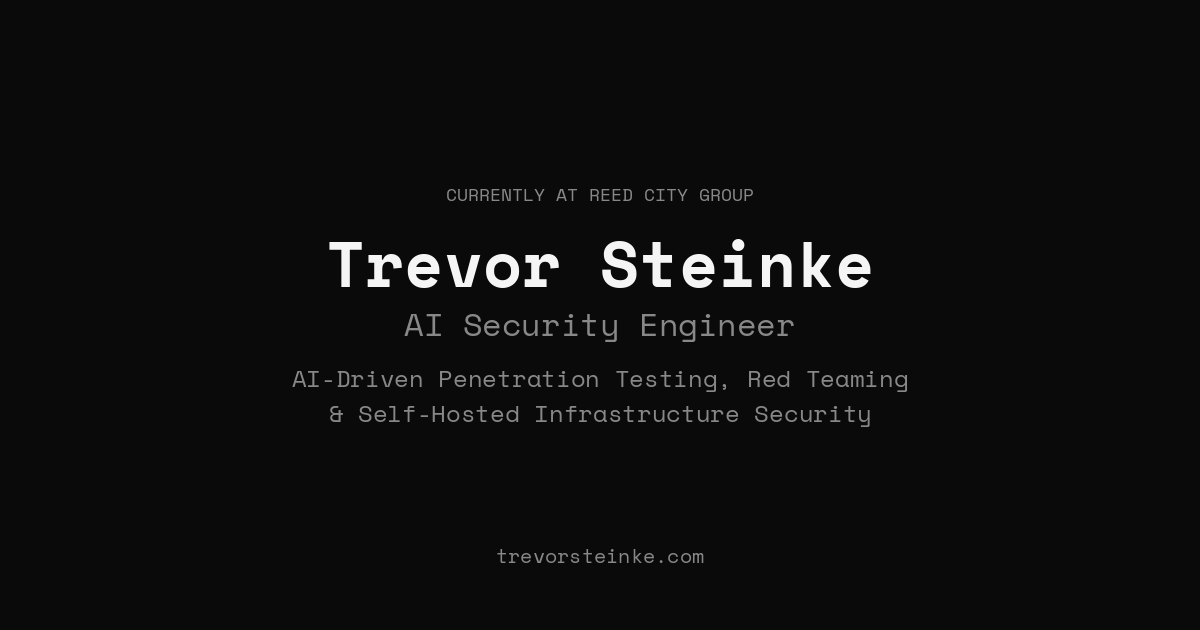
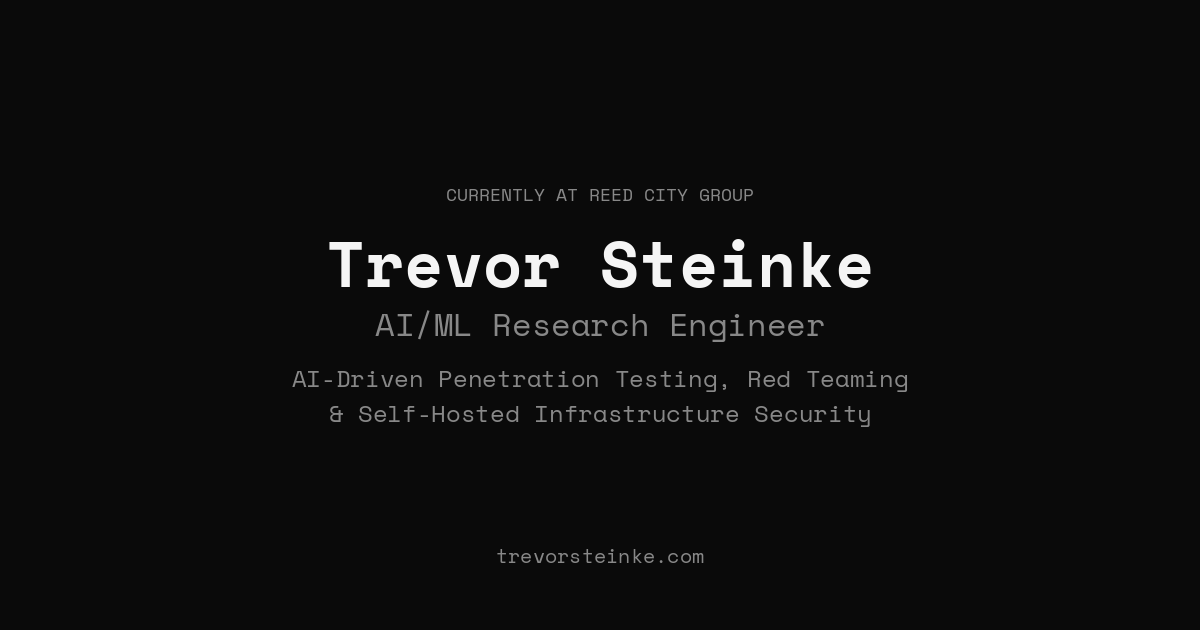
Update title to AI/ML Research Engineer across site
- Page title, OG title, Twitter title
- Meta descriptions
- JSON-LD jobTitle
- Hero subtitle
- OG image regenerated with new title

Changed region(s): [[0.3083, 0.4825, 0.6783, 0.5429]]

diff --git a/index.html b/index.html
@@ -3,14 +3,14 @@
 <head>
     <meta charset="UTF-8">
     <meta name="viewport" content="width=device-width, initial-scale=1.0">
-    <title>Trevor Steinke | AI Security & Pentesting Portfolio</title>
-    <meta name="description" content="AI security engineer specializing in AI-driven penetration testing, red teaming, and self-hosted infrastructure security. OWASP-aligned assessments, multi-agent AI pentesting, and zero trust architecture.">
+    <title>Trevor Steinke | AI/ML Research Engineer</title>
+    <meta name="description" content="AI/ML research engineer specializing in AI-driven penetration testing, red teaming, and self-hosted infrastructure security. OWASP-aligned assessments, multi-agent AI pentesting, and zero trust architecture.">
     <meta name="author" content="Trevor Steinke">
     
     <!-- Open Graph / Facebook -->
     <meta property="og:type" content="website">
     <meta property="og:url" content="https://trevorsteinke.com/">
-    <meta property="og:title" content="Trevor Steinke | AI Security & Pentesting Portfolio">
+    <meta property="og:title" content="Trevor Steinke | AI/ML Research Engineer">
     <meta property="og:description" content="AI-Driven Penetration Testing, Red Teaming & Self-Hosted Infrastructure Security.">
     <meta property="og:image" content="https://trevorsteinke.com/og-image.png">
     <meta property="og:image:width" content="1200">
@@ -20,8 +20,8 @@
     <!-- Twitter -->
     <meta name="twitter:card" content="summary_large_image">
     <meta name="twitter:url" content="https://trevorsteinke.com/">
-    <meta name="twitter:title" content="Trevor Steinke | AI Security & Pentesting Portfolio">
-    <meta name="twitter:description" content="AI security engineer specializing in AI-driven penetration testing, red teaming, and self-hosted infrastructure security.">
+    <meta name="twitter:title" content="Trevor Steinke | AI/ML Research Engineer">
+    <meta name="twitter:description" content="AI/ML research engineer specializing in AI-driven penetration testing, red teaming, and self-hosted infrastructure security.">
     <meta name="twitter:image" content="https://trevorsteinke.com/og-image.png">
     
     <!-- Canonical URL -->
@@ -38,7 +38,7 @@
         "@context": "https://schema.org",
         "@type": "Person",
         "name": "Trevor Steinke",
-        "jobTitle": "AI Security Engineer",
+        "jobTitle": "AI/ML Research Engineer",
         "address": {
             "@type": "PostalAddress",
             "addressLocality": "McBain",
@@ -92,7 +92,7 @@
                 Currently at Reed City Group
             </div>
             <h1 class="hero-title">Trevor Steinke</h1>
-            <p class="hero-subtitle">AI Security Engineer</p>
+            <p class="hero-subtitle">AI/ML Research Engineer</p>
             <p class="hero-description">AI-Driven Penetration Testing, Red Teaming & Self-Hosted Infrastructure Security</p>
             <a href="#contact" class="btn btn-primary">Get In Touch</a>
         </div>
